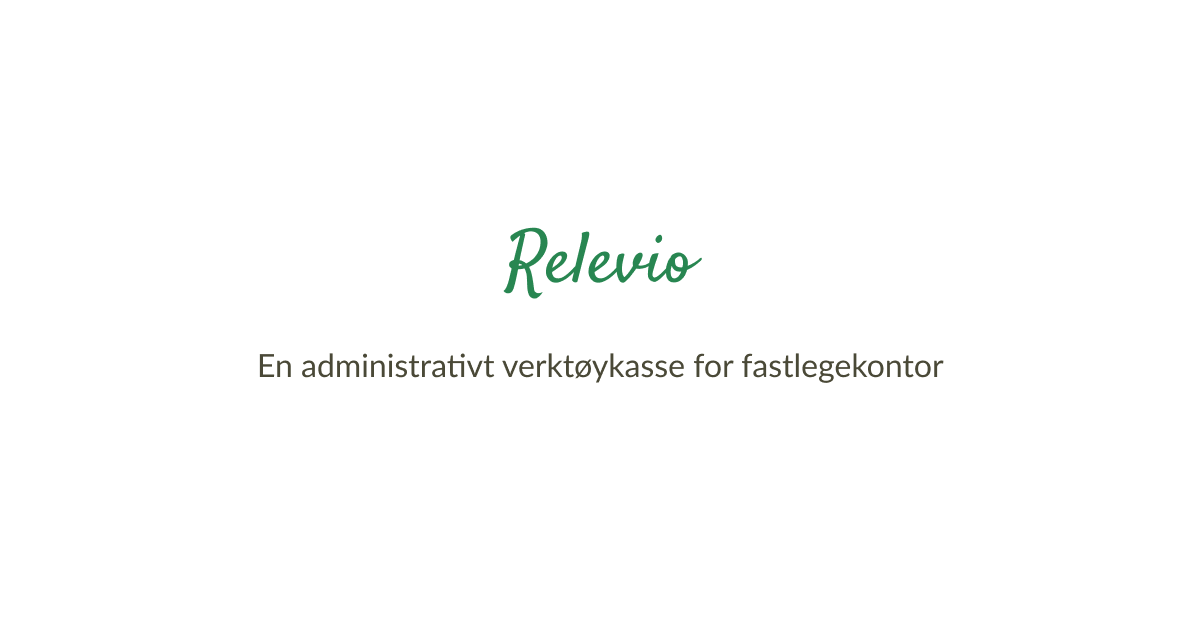
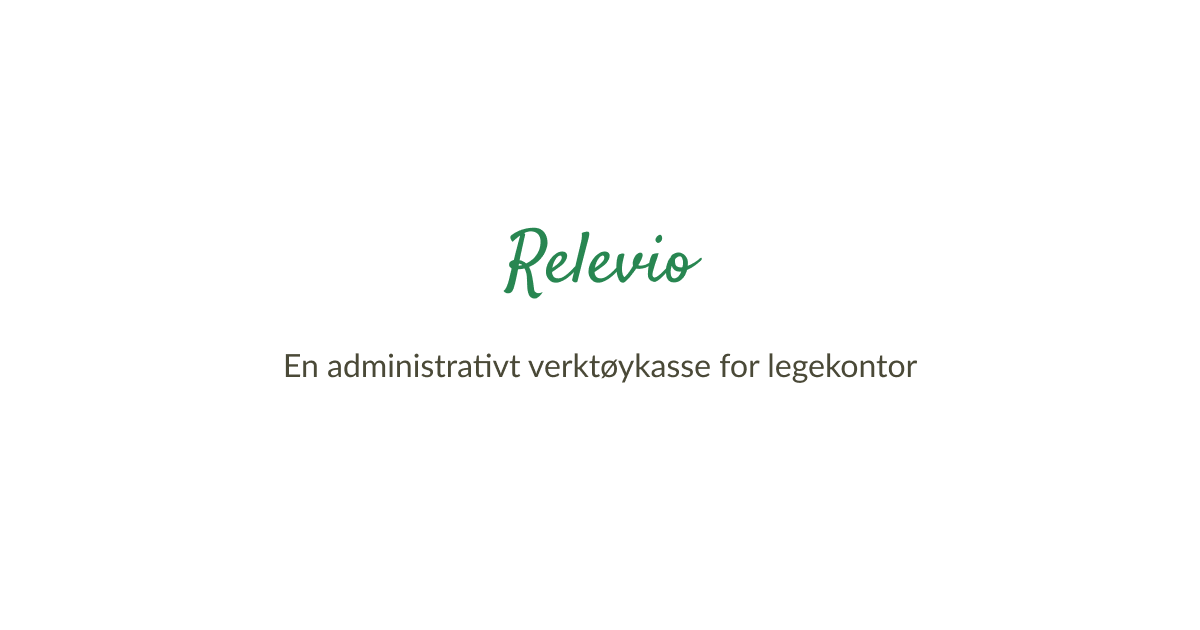
Mindre justeringer

Changed region(s): [[0.2158, 0.5429, 0.8017, 0.6032]]

diff --git a/index.html b/index.html
@@ -4,14 +4,14 @@
   <meta charset="utf-8">
   <title>Relevio</title>
   <meta name="viewport" content="width=device-width,initial-scale=1">
-  <meta name="description" content="En administrativ verktøykasse for fastlegekontor">
+  <meta name="description" content="En administrativ verktøykasse for legekontor">
   <meta property="og:title" content="Relevio">
   <meta property="og:url" content="https://relevio.no/">
   <meta property="og:image" content="https://relevio.no/ogimage.png">
   <meta property="og:image:width" content="1200" />
   <meta property="og:image:height" content="630" />
   <meta property="og:type" content="website">
-  <meta property="og:description" content="En administrativ verktøykasse for fastlegekontor">
+  <meta property="og:description" content="En administrativ verktøykasse for legekontor">
   <meta property="og:locale" content="nb_NO">
   <link rel="icon" href="favicon.ico" sizes="any">
   <link rel="stylesheet" href="style.css">
@@ -24,14 +24,14 @@
 <body>
   <main>
     <section class="introduksjon column-grid">
-      <h1>Hei, og velkommen til <span>Relevio</span>!</h1>
+      <h1>Velkommen til <span>Relevio</span></h1>
       
       <p>
-        En administrativ verktøykasse for fastlegekontor.<br>
-        Omsorgsfullt skrudd sammen av fastleger og helsesekretærer.
+        En administrativ verktøykasse for legekontor.<br>
+        Omsorgsfullt skrudd sammen &ndash; i samarbeid med leger og helsesekretærer.
       </p>
       <p>
-        <strong>Kanskje du finner noe du trenger?</strong>
+        <strong>Kanskje har vi noe du trenger?</strong>
       </p>
     </section>
 
@@ -56,15 +56,16 @@
         <ul>
           <li>Enkel redigering av innholdet som vises på skjermen</li>
           <li>Bruk ferdiglagde maler eller lag ditt helt eget lysbilde ved å velge tekst, farger og bakgrunn</li>
-          <li>Mulighet for å dele bilder og videoer</li>
-          <li>Tilgang til kvalitetssikret innhold fra eksterne aktører som Norsk Helseinformatikk og Folkehelseinstituttet</li>
+          <li>Mulighet for å vise bilder og videoer</li>
+          <li>Lett tilgang til kvalitetssikret innhold fra eksterne aktører som Norsk Helseinformatikk og Folkehelseinstituttet</li>
+          <li>Alle ansatte har redigeringstilgang</li>
           <li>Venteromsskjermen er dessuten helt reklamefri, og dere har full kontroll over hva som vises</li>
         </ul>
 
         <h3>Lyst til å vite mer?</h3> 
 
         <p>
-          <a href="mailto:post@relevio.no">Ta kontakt</a>, så setter vi opp et møte for å demonstrere verktøyet.
+          <a href="#takontakt">Ta kontakt</a>, så setter vi opp et møte for å demonstrere verktøyet.
         </p>
       </div>
 
@@ -96,17 +97,17 @@
         <h2>Om oss</h2>
 
         <p>
-          Relevio er en gründerbedrift som ble startet av fastlegene Finn Høivik og Tor Magne Johnsen i 2021. I samarbeid med fastleger og helsesekretærer utvikler Relevio et skybasert administrativt verktøy som har som mål å avlaste og lette hverdagen for leger, helsesekretærer og andre ansatte på norske legekontor.
+          Relevio er en gründerbedrift som ble startet av legene Finn Høivik og Tor Magne Johnsen i 2021. I samarbeid med leger og helsesekretærer utvikler Relevio et skybasert administrativt verktøy som har som mål å avlaste og lette hverdagen for leger, helsesekretærer og andre ansatte på norske legekontor.
         </p>
 
         
         <h3>Hvorfor gjør vi det</h3>
         
         <p>
-          Helsevesenet er inne i en krevende tid. For fastlegekontorene er konsekvensen at erfarne fastleger velger å forlate yrket og nye leger vegrer seg for å ta steget inn i faget. Lengre arbeidsdager og stadig mer komplekse arbeidsoppgaver, har blitt trukket frem som årsak til utfordringene. Avlastning for administrative oppgaver har blitt løftet opp som en viktig faktor for å bedre situasjonen. 
+          Helsevesenet er inne i en krevende tid. For legekontorene er konsekvensen at erfarne leger velger å forlate yrket og nye leger vegrer seg for å ta steget inn i faget. Lengre arbeidsdager og stadig mer komplekse arbeidsoppgaver, har blitt trukket frem som årsak til utfordringene. Avlastning for administrative oppgaver har blitt løftet opp som en viktig faktor for å bedre situasjonen. 
         </p>
         <p>
-          Det er imidlertid ikke opplagt hvordan dette kan oppnås da det ikke finnes overordnede systemer for håndtering av administrative oppgaver på fastlegekontorene, og de enkelte legekontor i stor grad definerer sine egne arbeidsmetoder. Men uavhengig av arbeidsmetoder er fellesnevneren uansett at gevinstene er store med å frigjøre tid brukt på administrativt arbeid til pasientrettet arbeid.
+          Det er imidlertid ikke opplagt hvordan dette kan oppnås da det ikke finnes overordnede systemer for håndtering av administrative oppgaver på legekontorene, og de enkelte legekontor i stor grad definerer sine egne arbeidsmetoder. Men uavhengig av arbeidsmetoder er fellesnevneren uansett at gevinstene er store med å frigjøre tid brukt på administrativt arbeid til pasientrettet arbeid.
         </p>
         
         <div class="omoss__visjon">
@@ -139,17 +140,13 @@
     <section class="veienvidere column-grid">
       <h2>Bli med på reisen</h2>
 
-      <p>Vi ønsker et tett samarbeid med flere fastlegekontor for å kunne utvikle verktøy som virkelig treffer deres behov, og som kan utgjøre en forskjell i deres hverdag.</p>
+      <p>Vi ønsker et tett samarbeid med flere legekontor for å kunne utvikle verktøy som virkelig treffer deres behov, og som kan utgjøre en forskjell i deres hverdag.</p>
 
       <p>Venterommet er bare starten. Flere verktøy er under utvikling, og dere har mulighet til å påvirke. </p>
 
+      <h3 id="takontakt">Vil du høre mer om Relevio?</h3>
       <p>
-        <strong>
-          Vil du høre mer om Relevio?
-        </strong>
-      </p>
-      <p>
-        <a href="mailto:post@relevio.no" class="veienvidere__action">Send en e-post</a>
+        Send en e-post til <a href="mailto:post@relevio.no">post@relevio.no</a>, så hører du fra oss.
       </p>
     </section>
 

diff --git a/style.css b/style.css
@@ -175,8 +175,6 @@ li {
 }
 
 .introduksjon {
-  font-size: 1.25rem;
-  line-height: 2.5rem;
   padding-top: 9rem;
 }
 
@@ -186,13 +184,6 @@ li {
     padding-top: 4.5rem;
   }
   
-}
-
-@media (max-width: 35em) {
-  .introduksjon {
-    font-size: 1.125rem;
-    line-height: 2rem;
-  }
 }
 
 
@@ -274,6 +265,8 @@ li {
   .venterommet__rightcolumn {
     margin: 0 -2rem;
     padding: 2rem 0;
+    background-size: auto 200%;
+    background-position: top center;
   }
   
 }
@@ -291,11 +284,12 @@ li {
 
 
 .omoss__finntormagne {
-  clip-path: url(#twocircles);
+  /* clip-path: url(#twocircles); */
   display: block;
   margin: 3.5rem auto 0 auto;
   max-width: 100%; 
   height: auto;
+  border-radius: 9rem;
 }
 
 
